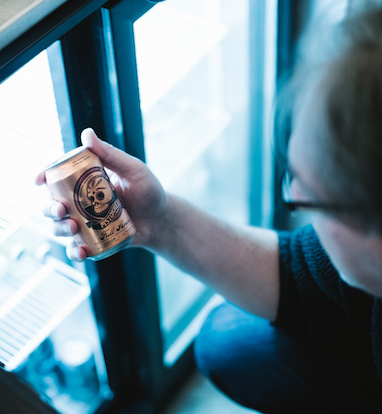
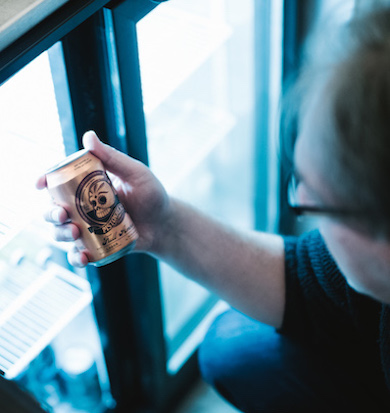
Image gallery refactor

diff --git a/assets/sass/components/image-gallery.scss b/assets/sass/components/image-gallery.scss
@@ -4,26 +4,14 @@
     overflow: hidden;
 }
 .ImageGallery-image {
-    width: 100%;
-    vertical-align: bottom;
     float: left;
-    overflow: hidden;
-    /*display: inline-block;*/
-    /*padding: 0.35rem;*/
-    img {
-        float: left;
-    }
+    padding: px2rem(7px);
 }
 @media screen and (min-width: px2em(300px)) {
     .ImageGallery {
-        /*display: flex;
-        flex-wrap: wrap;*/
     }
     .ImageGallery-group {
         float: left;
-        /*display: flex;
-        align-items: flex-start;*/
-        width: 100%;
         &--wide .ImageGallery-image {
             width: 100%;
         }
@@ -31,20 +19,12 @@
             width: 50%;
         }
     }
-    .ImageGallery-group--quad {
-        /*display: flex;
-        flex-direction: column;*/
-    }
-    .ImageGallery-quadRow {
-        width: 100%;
-    }
     .ImageGallery-image {
-        width: auto;
         &--quadSmall {
-            width: 33.333%;
+            width: 33.3%;
         }
         &--quadWide {
-            width: 66.666%;
+            width: 66.6%;
         }
     }
 }
@@ -55,20 +35,23 @@
     .ImageGallery-group {
         width: 50%;
     }
-    .ImageGallery-image {
-        /*padding: 0.3rem;*/
-    }
 }
 @media only screen and (min-width: px2em(980px)) {
     .ImageGallery {
         max-width: px2em(940px);
     }
-    .ImageGallery-image {
-        /*padding: 0.4rem;*/
+    .ImageGallery-group--quad {
+        max-height: none;
     }
 }
 @media only screen and (min-width: px2em(1200px)) {
     .ImageGallery {
         max-width: px2em(1040px);
+    }
+    .ImageGallery-image {
+        padding: px2rem(10px);
+    }
+    .ImageGallery-group--wide .ImageGallery-image {
+        height: 308px;
     }
 }
